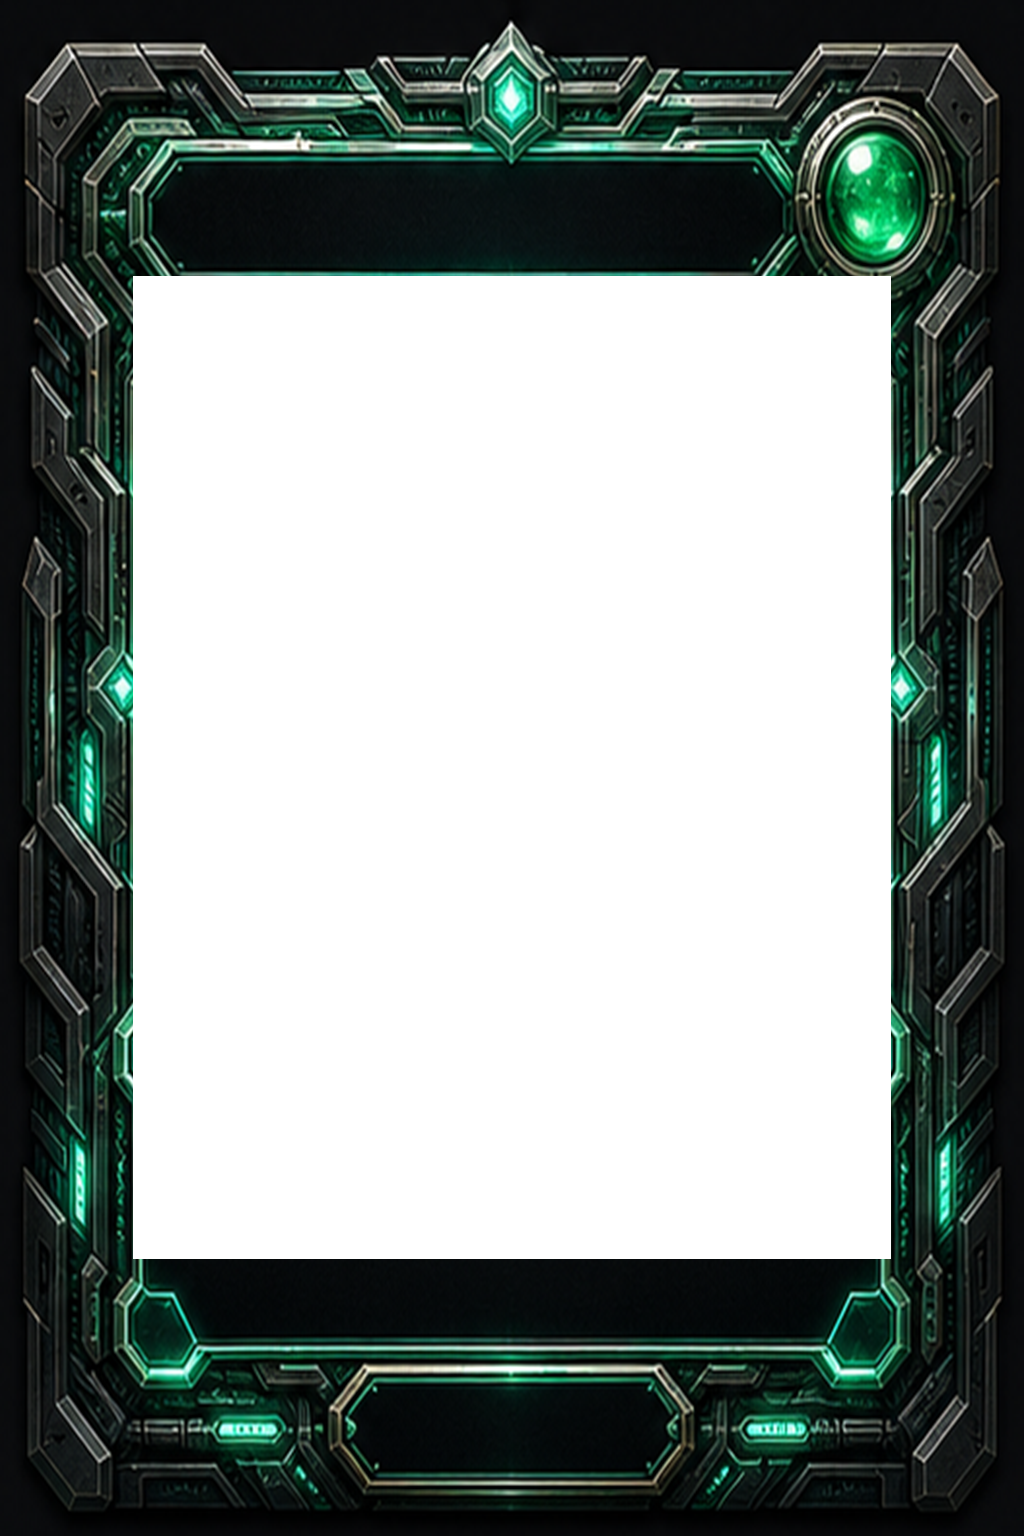
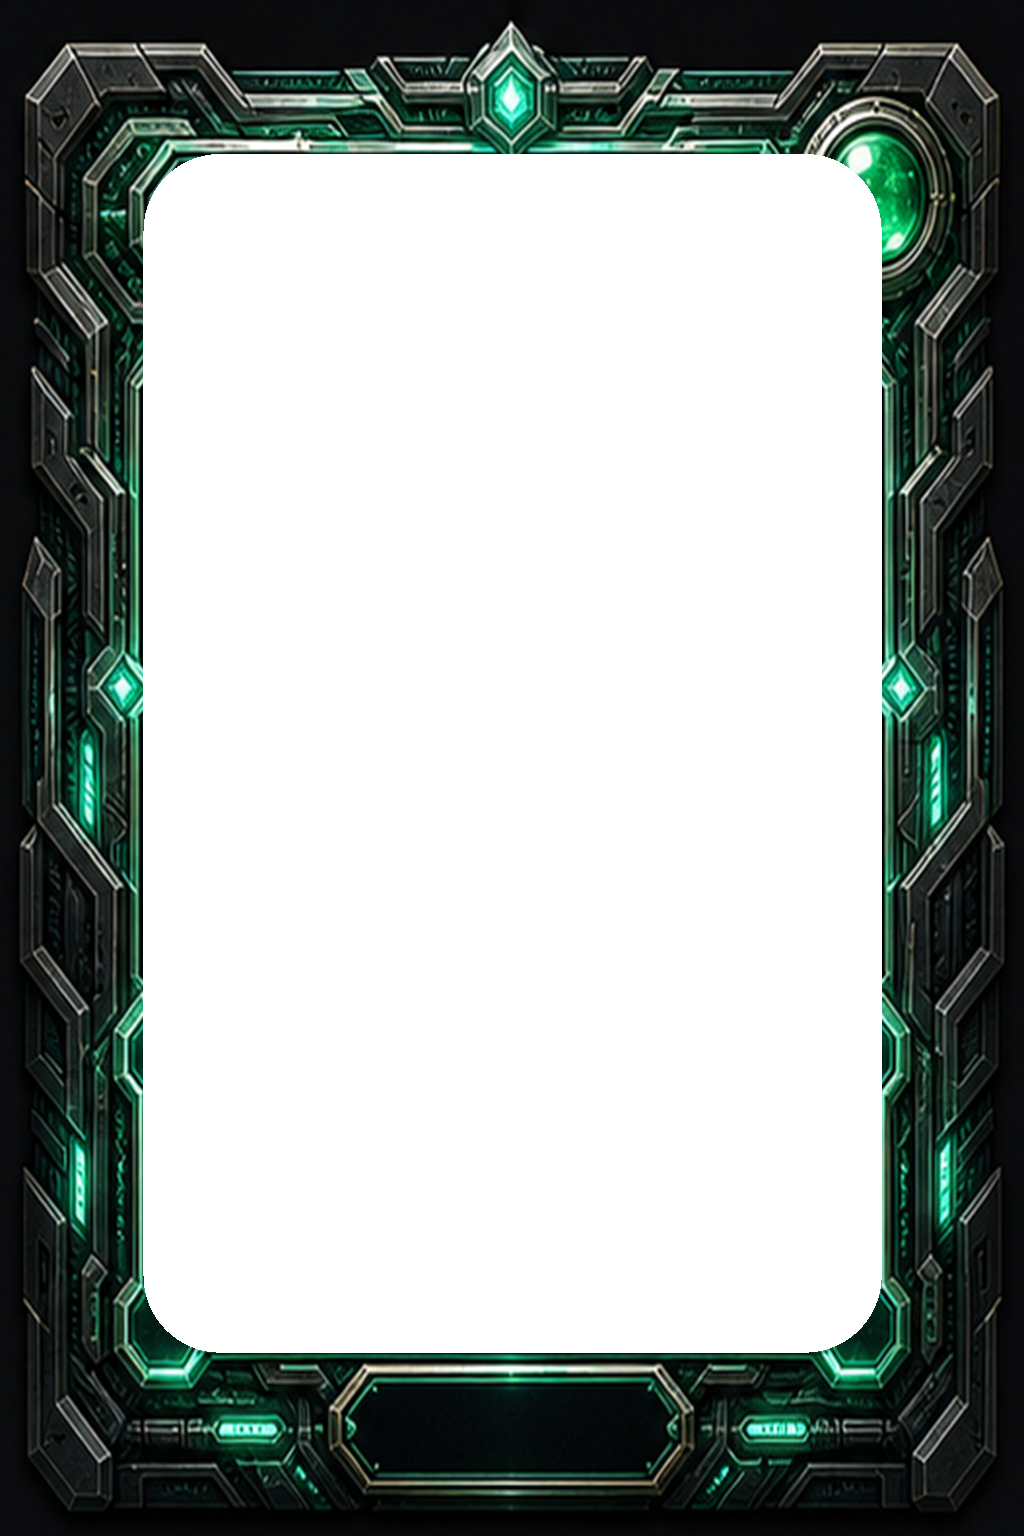
Clean up card frame layering

Changed region(s): [[0.125, 0.0938, 0.875, 0.9062]]

diff --git a/styles.css b/styles.css
@@ -1576,7 +1576,7 @@ select {
   --card-frame: var(--unit-frame);
   --card-glow: rgba(226, 95, 88, 0.18);
   --card-top: rgba(226, 95, 88, 0.16);
-  --card-frame-image: url("assets/cards/frames/unit-bg-new2-overlay.png");
+  --card-frame-image: url("assets/cards/frames/unit-bg-new2-overlay.png?v=20260601frameoverlay3");
   --card-face-rules-height: 20.8%;
 }
 
@@ -1584,7 +1584,7 @@ select {
   --card-frame: var(--spell-frame);
   --card-glow: rgba(79, 189, 226, 0.18);
   --card-top: rgba(79, 189, 226, 0.16);
-  --card-frame-image: url("assets/cards/frames/spell-bg-new-overlay.png");
+  --card-frame-image: url("assets/cards/frames/spell-bg-new-overlay.png?v=20260601frameoverlay3");
   --card-face-rules-top: 72.6%;
   --card-face-rules-height: 22.8%;
 }
@@ -1593,42 +1593,42 @@ select {
   --card-frame: var(--reaction-frame);
   --card-glow: rgba(215, 168, 79, 0.2);
   --card-top: rgba(215, 168, 79, 0.16);
-  --card-frame-image: url("assets/cards/frames/reaction-bg-new-overlay.png");
+  --card-frame-image: url("assets/cards/frames/reaction-bg-new-overlay.png?v=20260601frameoverlay3");
 }
 
 .type-core {
   --card-frame: var(--core-frame);
   --card-glow: rgba(143, 206, 122, 0.18);
   --card-top: rgba(143, 206, 122, 0.16);
-  --card-frame-image: url("assets/cards/frames/core-bg-new-overlay.png");
+  --card-frame-image: url("assets/cards/frames/core-bg-new-overlay.png?v=20260601frameoverlay3");
 }
 
 .type-unit-drive {
   --card-frame: var(--unit-frame);
   --card-glow: rgba(255, 75, 64, 0.26);
   --card-top: rgba(255, 75, 64, 0.18);
-  --card-frame-image: url("assets/cards/frames/unit-drive-bg-overlay.png");
+  --card-frame-image: url("assets/cards/frames/unit-drive-bg-overlay.png?v=20260601frameoverlay3");
 }
 
 .type-reaction-drive {
   --card-frame: var(--reaction-frame);
   --card-glow: rgba(255, 205, 70, 0.28);
   --card-top: rgba(255, 205, 70, 0.18);
-  --card-frame-image: url("assets/cards/frames/reaction-drive-bg-overlay.png");
+  --card-frame-image: url("assets/cards/frames/reaction-drive-bg-overlay.png?v=20260601frameoverlay3");
 }
 
 .type-spell-drive {
   --card-frame: var(--spell-frame);
   --card-glow: rgba(78, 183, 255, 0.26);
   --card-top: rgba(78, 183, 255, 0.18);
-  --card-frame-image: url("assets/cards/frames/spell-drive-bg-overlay.png");
+  --card-frame-image: url("assets/cards/frames/spell-drive-bg-overlay.png?v=20260601frameoverlay3");
 }
 
 .type-core-drive {
   --card-frame: var(--core-frame);
   --card-glow: rgba(64, 226, 174, 0.26);
   --card-top: rgba(64, 226, 174, 0.18);
-  --card-frame-image: url("assets/cards/frames/core-drive-bg-overlay.png");
+  --card-frame-image: url("assets/cards/frames/core-drive-bg-overlay.png?v=20260601frameoverlay3");
 }
 
 .library-card {
@@ -2735,7 +2735,7 @@ select {
 .type-spell,
 .type-core,
 .type-unit-drive {
-  --card-frame-image: url("assets/cards/frames/chrono-v2-card-frame-overlay.png");
+  --card-frame-image: url("assets/cards/frames/chrono-v2-card-frame-overlay.png?v=20260601frameoverlay3");
 }
 
 .core-row,
@@ -4186,7 +4186,7 @@ select {
 .type-spell,
 .type-core,
 .type-unit-drive {
-  --card-frame-image: url("assets/cards/frames/chrono-v2-card-frame-overlay.png");
+  --card-frame-image: url("assets/cards/frames/chrono-v2-card-frame-overlay.png?v=20260601frameoverlay3");
 }
 
 .core-row,
@@ -6933,19 +6933,19 @@ select {
 /* Card-face model: name + tall artwork + only the stat circles that the card actually uses. */
 .type-unit,
 .type-unit-drive {
-  --card-frame-image: url("assets/cards/frames/chrono-v2-card-frame-overlay.png");
+  --card-frame-image: url("assets/cards/frames/chrono-v2-card-frame-overlay.png?v=20260601frameoverlay3");
 }
 
 .type-spell {
   --card-frame: var(--spell-frame);
-  --card-frame-image: url("assets/cards/frames/chrono-v2-spell-frame-overlay.png");
+  --card-frame-image: url("assets/cards/frames/chrono-v2-spell-frame-overlay.png?v=20260601frameoverlay3");
   --card-glow: rgba(79, 189, 226, 0.2);
   --card-top: rgba(79, 189, 226, 0.15);
 }
 
 .type-core {
   --card-frame: var(--core-frame);
-  --card-frame-image: url("assets/cards/frames/chrono-v2-core-frame-overlay.png");
+  --card-frame-image: url("assets/cards/frames/chrono-v2-core-frame-overlay.png?v=20260601frameoverlay3");
   --card-glow: rgba(143, 206, 122, 0.22);
   --card-top: rgba(143, 206, 122, 0.16);
 }
@@ -7126,31 +7126,27 @@ select {
   grid-template-columns: 252px minmax(390px, 1fr) 126px;
 }
 
-/* The generated frame owns the colored sockets; CSS only places the numbers. */
+/* Rarity changes glow only; the card type keeps ownership of the frame art. */
 .rarity-bronze {
   --card-frame: #b8783c;
-  --card-frame-image: url("assets/cards/frames/socket-stat-frame-overlay.png");
   --card-glow: rgba(205, 126, 66, 0.22);
   --card-top: rgba(205, 126, 66, 0.14);
 }
 
 .rarity-silver {
   --card-frame: #b8c6d7;
-  --card-frame-image: url("assets/cards/frames/socket-stat-frame-overlay.png");
   --card-glow: rgba(188, 213, 238, 0.22);
   --card-top: rgba(188, 213, 238, 0.13);
 }
 
 .rarity-gold {
   --card-frame: #e5b442;
-  --card-frame-image: url("assets/cards/frames/socket-stat-frame-overlay.png");
   --card-glow: rgba(255, 213, 92, 0.26);
   --card-top: rgba(255, 213, 92, 0.15);
 }
 
 .rarity-rainbow {
   --card-frame: #f4ddff;
-  --card-frame-image: url("assets/cards/frames/socket-stat-frame-overlay.png");
   --card-glow: rgba(110, 231, 255, 0.28);
   --card-top: rgba(255, 119, 220, 0.16);
 }
@@ -7204,23 +7200,15 @@ select {
   z-index: 18;
   pointer-events: none;
   background: var(--card-frame-image) center / 100% 100% no-repeat;
-  -webkit-mask:
-    linear-gradient(#000 0 0) center / 100% 100% no-repeat,
-    linear-gradient(#000 0 0) 13% 18% / 74% 64% no-repeat;
-  -webkit-mask-composite: xor;
-  mask:
-    linear-gradient(#000 0 0) center / 100% 100% no-repeat,
-    linear-gradient(#000 0 0) 13% 18% / 74% 64% no-repeat;
-  mask-composite: exclude;
 }
 
 .game-card .card-art,
 .game-card .card-face .card-art {
   z-index: 4;
-  left: 13%;
-  top: 18%;
-  width: 74%;
-  height: 64%;
+  left: 17%;
+  top: 24%;
+  width: 66%;
+  height: 50%;
   border-radius: 0;
   box-shadow: none;
   overflow: hidden;

diff --git a/index.html b/index.html
@@ -12,7 +12,7 @@
     <link rel="manifest" href="manifest.webmanifest">
     <link rel="icon" type="image/png" sizes="192x192" href="assets/icons/icon-192.png">
     <link rel="apple-touch-icon" sizes="180x180" href="assets/icons/icon-180.png">
-    <link rel="stylesheet" href="styles.css?v=20260601frameoverlay2">
+    <link rel="stylesheet" href="styles.css?v=20260601frameoverlay3">
     <script defer src="src/data/cards.js?v=20260601newrulesui4"></script>
     <script defer src="src/data/notices.js?v=20260601newrules"></script>
     <script defer src="src/core/deck-store.js?v=20260601newrules"></script>
